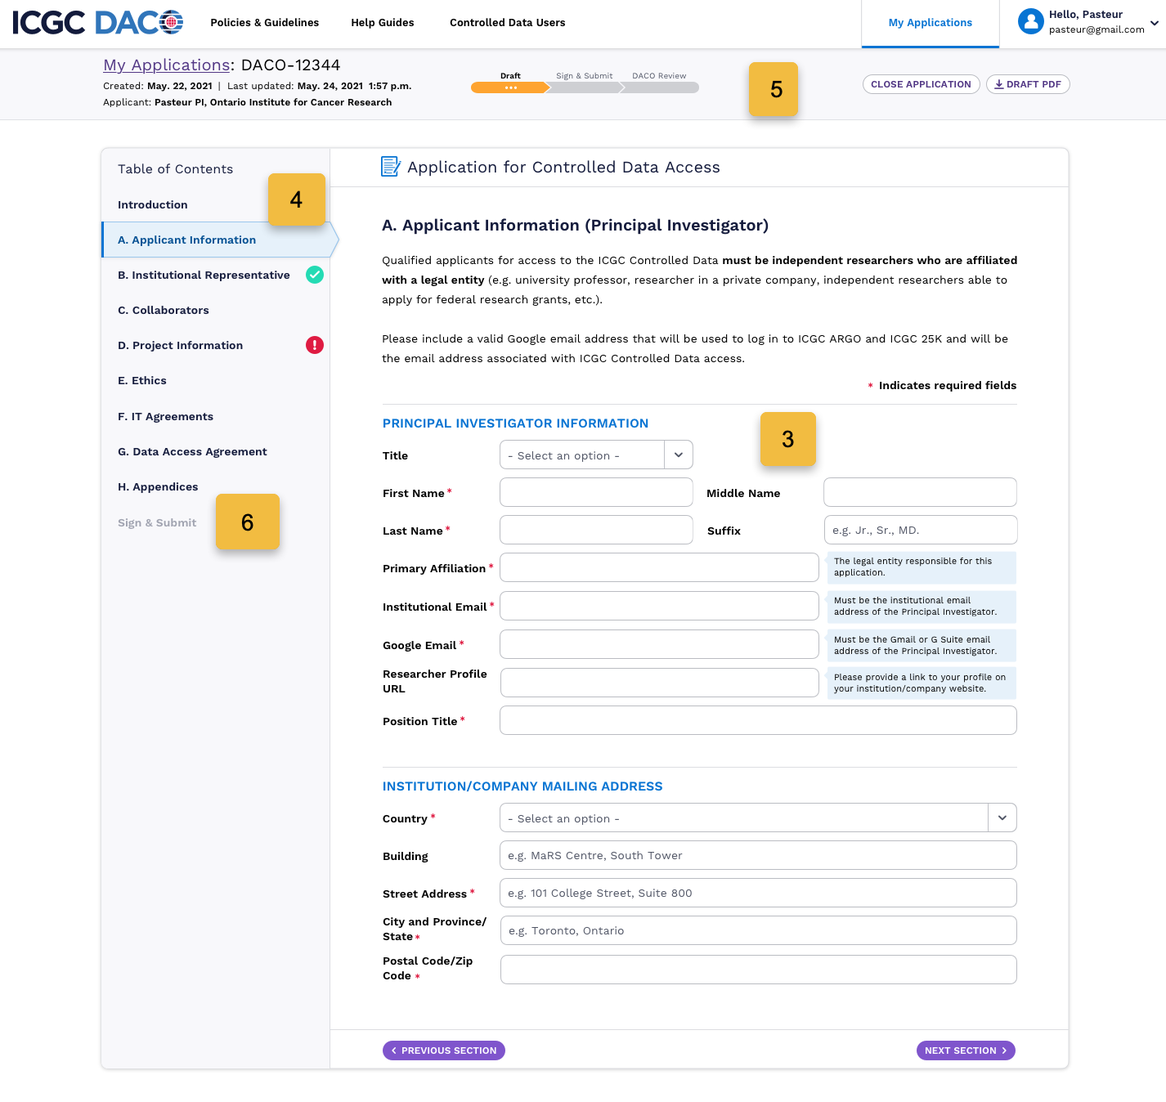
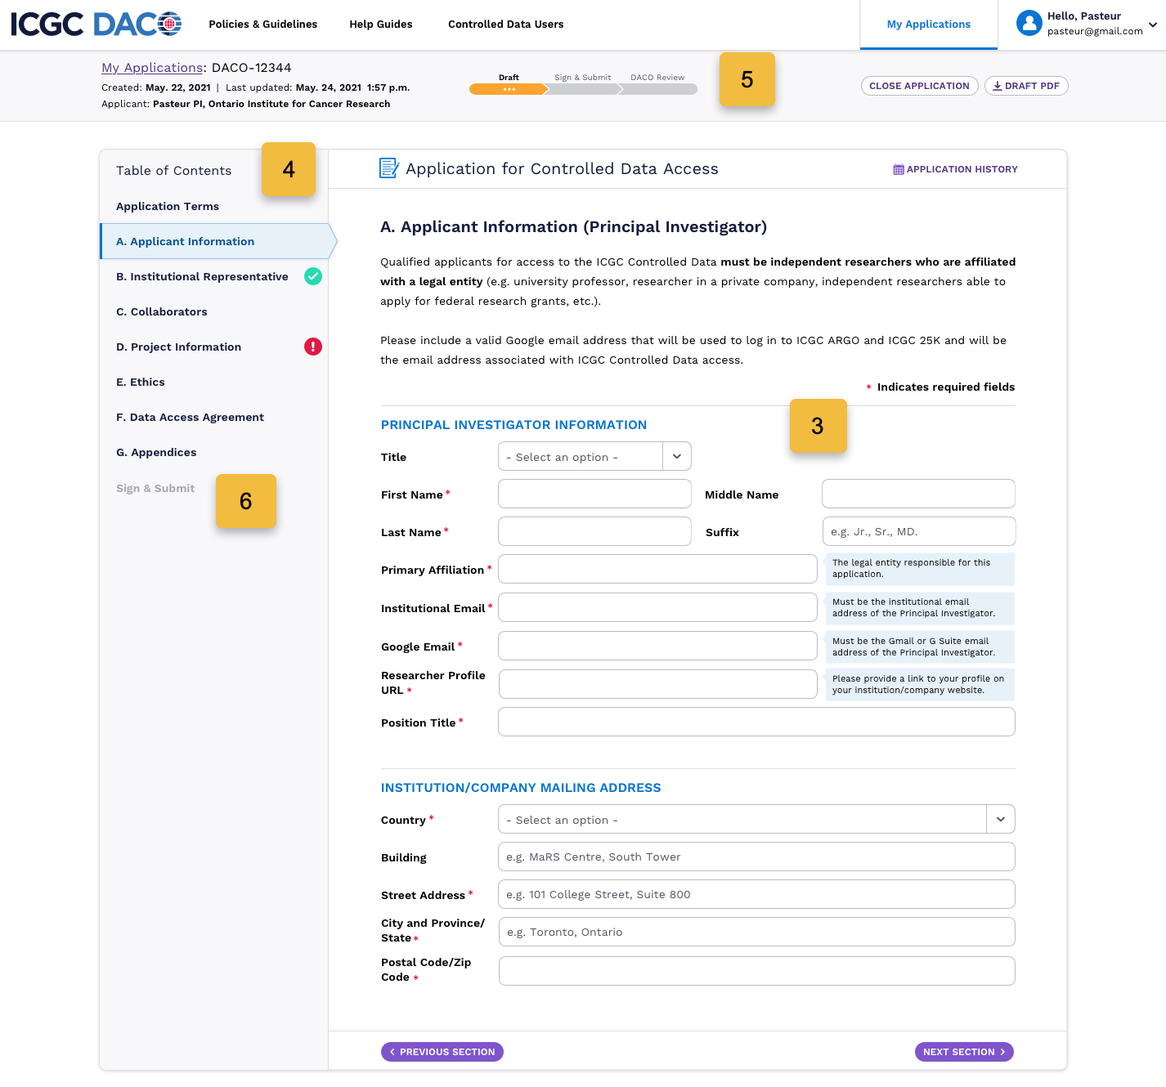
daco-updates-sept10
- wording and screenshot revisions
- added a new page for renewing and closing
- split up the app progress stage table across the multiple pages

diff --git a/docs/data-access/daco/applying.md b/docs/data-access/daco/applying.md
@@ -10,7 +10,9 @@ The International Cancer Genome Consortium has tiered levels of access to donor 
 
 
 ### Eligible Project Guidelines
-While there is great potential of data sharing for scientific research, caution is required when sharing data about individuals participating in genomic research because genomic data, like other types of medical data, can contain personal and identifying information. Some specific criteria that the ICGC DACO will look for are as follows:
+While there is great potential of data sharing for scientific research, caution is required when sharing data about individuals participating in genomic research because genomic data, like other types of medical data, can contain personal and identifying information.
+
+ICGC DACO provides controlled access to public and private researchers (PIs) that apply for access and the access conditions are the same for both types of researchers.  The application must be completed and submitted through the [online submission system](https://daco.icgc-argo.org). The qualification requirements for applicants are: 
 
 1. **The Applicant** must be an independent researcher affiliated with a legal entity (e.g. university professor, researcher in a private company, independent researchers able to apply for federal research grants, etc.), and they **must review and sign the finalized application**.
 1. A qualified **Institutional Representative** of a legal entity has the administrative power to legally commit that entity to the terms and conditions of the Data Access Agreement (e.g. Vice-President Research, a Research Director, or a Contracts Officer for the entity), and **must review and sign the finalized application**.
@@ -46,19 +48,17 @@ The following are a list of the users involved in an application and their requi
 1. Complete the entire application form, including all required fields.
 ![DACO blank application](/assets/data-access/daco-application.png)
 1. You will notice the application form automatically saves as you fill it in. In the table of contents, icons will indicate which sections haven’t been started (blank), are complete ![DACO icon showing section complete](/assets/data-access/daco-toc-complete.png) or are incomplete ![DACO icon showing section incomplete](/assets/data-access/daco-toc-errors.png).
-1. Above the application form basic information about the application is displayed. This is also where you can access actions, such as downloading a pdf, and a progress bar that indicates what stage your application is in. This progress indicator is also displayed on the dashboard card for each application you have started. [Read more about the progress stages below](/docs/data-access/daco/applying#application-progress-stages).
+1. Above the application form basic information about the application is displayed. This is also where you can access actions, such as downloading a pdf, and a progress bar that indicates what stage your application is in. This progress indicator is also displayed on the dashboard card for each application you have started. [Read more about some of the progress stages below](/docs/data-access/daco/applying#application-progress-stages).
 1. You must have all required sections completed in order to access the final `Sign & Submit` section. 
-1. Once your application form is finalized and signed by both the Applicant (Principal Investigator) and Institutional Representative, you can upload the signed application PDF in the `Sign & Submit` section and click the **Submit Application** button. [Read more about signing and submitting your application below](/docs/data-access/daco/applying#signing-and-submitting-the-application).
+1. Once your application form is finalized and signed by both the Applicant (Principal Investigator) and Institutional Representative, you can upload the signed application pdf in the `Sign & Submit` section and click the **Submit Application** button. [Read more about signing and submitting your application below](/docs/data-access/daco/applying#signing-and-submitting-the-application).
 
-### Application Progress Stages
+### Application Progress Stages when Applying
 
 | Application Stage | Description | Application pdf | 
 | ----------------------- | --------------------------- | --------------------- | 
 | **Draft** | The application is in progress and is incomplete. <br /><br /> ![DACO application in Draft state](/assets/data-access/daco-draft.png)| You can download a **Draft pdf** that will display a watermark if you wish to use it to collaborate with others.<br /><br /> ![Download button for draft pdf](/assets/data-access/download-draft.png) |  
 | **Sign & Submit** | All required sections are completed and the application is ready to be signed by the Principal Investigator and Institutional Representative. <br /><br /> ![DACO application in Sign and Submit state](/assets/data-access/daco-signsubmit.png)| You can now download the **Finalized pdf** from the top button to collect the proper signatures.<br /><br /> ![Download button for finalized pdf](/assets/data-access/download-finalized.png)| 
 | **DACO Review** | Once you upload the signed application and click **Submit Application**, the application will be locked and it will be sent to the ICGC DACO for review. <br /><br /> ![DACO application in DACO Review state](/assets/data-access/daco-review.png) | You can download the signed and submitted pdf using the **Signed pdf** top button. <br /><br />![Download button for signed pdf](/assets/data-access/download-signed.png)| 
-| **Revisions Requested** | If the ICGC DACO office requires revisions to your application before approval, you will receive an email with the details of what to revise and those sections of your application will be unlocked for editing. [Read more](/docs/data-access/daco/approval#requested-revisions).  <br /><br /> ![DACO application in Revisions Requested state](/assets/data-access/daco-revisions-requested.png)| You can download a **Draft pdf** that will display a watermark if you wish to use it to collaborate with others. <br /><br /> ![Download button for draft pdf](/assets/data-access/download-draft.png)| 
-| **Approved** | If the ICGC DACO approves your application, it will be viewable and some sections will remain editable. [Read more](/docs/data-access/daco/approval#approval-for-controlled-data-access).  <br /><br /> ![DACO application in Approved state](/assets/data-access/daco-approved.png)| You will be emailed the ICGC DACO approved copy of the application. <br /><br />  ![Download button for signed pdf](/assets/data-access/download-signed.png)| 
 
 
 ### Applicant Dashboard
@@ -69,6 +69,7 @@ When applications are in progress, the Applicant dashboard will show the followi
 1. A card will show up on your dashboard tracking each application you have opened, what stage they are in, and provides quick links for editing. 
 1. Once an application is approved, the card will show the access expiry date and will eventually alert you when it’s almost time for renewal. 
 1. A smaller card in the top right of the dashboard will indicate if the logged in user has been approved for access to ICGC Controlled Data.  
+1. You will always be able to start a new application, in case you are managing multiple projects.
 
 
 The following outlines a bit more information about some specific application sections:
@@ -92,12 +93,12 @@ If your country/region requires an ethics approval, it is required that you prov
 
 If the ethics approval is written in a language other than English, please upload a translated version.
 
-> Please note: The DACO and the ICGC are not responsible for the ethics approval/monitoring of individual research projects and bear no responsibility for the Applicant's failure to comply with local/national ethical requirements.
+> **Please note:** The DACO and the ICGC are not responsible for the ethics approval/monitoring of individual research projects and bear no responsibility for the Applicant's failure to comply with local/national ethical requirements.
 
 ## Signing and Submitting the Application
 The last section of the application, `Sign & Submit`, will be disabled if any section of the application is incomplete. 
 
-When this section is enabled, the final step involves adding the proper signatures to authorize the application. Please do the following:
+When the application is complete, this section is enabled and the final step involves adding the proper signatures to authorize the application. Please do the following:
 1. Download the finalized application from the top application header, or using the button within the section content. 
 1. On the last page of the application pdf you will find a signatures page. You must include **BOTH the Principal Investigator and the Institutional Representative signatures** or your application will be declined.
    * You can print the final signature page, collect the written signatures, scan the signed page and add it back to the finalized application pdf.

diff --git a/docs/data-access/daco/approval.md b/docs/data-access/daco/approval.md
@@ -1,6 +1,6 @@
 ---
 id: approval
-title: ICGC DACO Approval Process
+title: DACO Approval Process
 sidebar_label: Approval Process
 platform_key: DOCS_APPROVAL
 ---
@@ -12,12 +12,20 @@ Once submitted to the ICGC DACO, you will be **notified within 10 business days*
 
 ![DACO Review Process with possible outcomes](/assets/data-access/daco-approval-diagram.png)
 
+### Application Progress Stages after DACO Review
+
+| Application Stage | Description | Application pdf | 
+| ----------------------- | --------------------------- | --------------------- | 
+| **Revisions Requested** | If the ICGC DACO office requires revisions to your application before approval, the revision details will be sent via email, and specific sections of your application will be unlocked for editing.  <br /><br /> ![DACO application in Revisions Requested state](/assets/data-access/daco-revisions-requested.png)| You can download a **Draft pdf** that will display a watermark if you wish to use it to collaborate with others. <br /><br /> ![Download button for draft pdf](/assets/data-access/download-draft.png)| 
+| **Approved** | If the ICGC DACO approves your application, it will be viewable and some sections will remain editable, such as Collaborators.  <br /><br /> ![DACO application in Approved state](/assets/data-access/daco-approved.png)| A copy of the application, signed by the Data Access Officer, will be available within 5 business days of approval. Download the document for your records using the **Approved pdf** top button. <br /><br />  ![Download button for approved pdf](/assets/data-access/download-approved.png)| 
+| **Rejected** | If the ICGC DACO rejects your application, the reasons will be sent via email, and your application will be view-only. <br /><br /> ![DACO application in Rejected state](/assets/data-access/daco-rejected.png)| You can download the signed and submitted pdf using the **Signed pdf** top button. <br /><br />![Download button for signed pdf](/assets/data-access/download-signed.png)| 
+
 ## Revisions Requested
-If the ICGC DACO requires specific criteria to be met before being able to approve the application, they will request revisions from the project team.If this is the case, you will receive an email outlining the sections that require revisions along with specific details that need to be provided.
+If the ICGC DACO requires specific criteria to be met before being able to approve the application, they will request revisions from the project team. If this is the case, you will receive an email outlining the sections that require revisions along with specific details that need to be provided.
 
-At this time, the application submitter can log in to [daco.icgc-argo.org](https://daco.icgc-argo.org) and access their application that is in the `Revisions Requested` state. The sections that need revising will be unlocked and will show an **orange pencil** icon in the table of contents. The `Sign & Submit` section will be enabled once corrections have been made to those sections. Once corrected, please upload the revised and signed application and resubmit.  
+At this time, you can log in to [daco.icgc-argo.org](https://daco.icgc-argo.org) and access the application that is in the `Revisions Requested` state. The sections that need revising will be unlocked and will show an **orange pencil** icon in the table of contents. The `Sign & Submit` section will be enabled once corrections have been made to those sections. Once corrected, please upload the revised and signed application and resubmit.  
 
-![DACO application showing requested revisions state](/assets/data-access/daco-requested-revisions.png)
+![DACO application showing requested revisions state](/assets/data-access/daco-revisions-application.png)
 
 ## Approval for Controlled Data Access
 If the ICGC DACO approves your application, access to ICGC Controlled Data will be granted for a **two year period** starting from the date of approval for access. **Note, it may take up to 24 hours for authorization to take effect.** 
@@ -28,7 +36,7 @@ The Applicant/PI and all Collaborators will receive an email notifying them that
 
 **Next Steps:**
 
-A copy of the application signed by the Data Access Officer will be sent to the Applicant.
+A copy of the application, signed by the Data Access Officer, will be available for your records within 5 business days of approval. Download the document using the **Approved PDF** button in the top header of your application.
 
 You can access ICGC Controlled Data in the following data portals:
 - [ICGC ARGO Data Platform](https://platform.icgc-argo.org/) - For more information, consult the [Accessing and Downloading Data documentation](/docs/data-access/data-download)
@@ -40,9 +48,11 @@ You can access ICGC Controlled Data in the following data portals:
 The approved application can be accessed from your applications dashboard with the following sections unlocked, depending on project criteria.
 
 1. `Section C: Collaborators` will always be unlocked for the Applicant to add and remove Collaborators as the project team changes. 
-   * It is important to ensure that all project Collaborators review the Data Access Agreement, and to remove any Collaborator who should no longer have access to ICGC Controlled Data.   
+   * It is important to ensure that all project Collaborators review the Data Access Agreement, and to remove any Collaborator who should no longer have access to ICGC Controlled Data.
+   * When a Collaborator is removed, they will receive an email notifying them that their access to ICGC Controlled Data will be removed within the next 24 hours.   
    * After approval, a Collaborator’s information cannot be edited, you can only add or delete Collaborators from the application.
-   * When a new Collaborator is added to an approved application, the ICGC DACO will be notified and will review accordingly.
+   * When a new Collaborator is added to an approved application, they will receive an email with the data access information, and ICGC DACO will be notified and will review accordingly.
+   
 1. `Section E: Ethics`
    * If you stated that your research project does not require ethics approval, this section will be locked for editing. 
    * If you provided an ethics approval letter, the ethics section will be editable to ensure you can upload a renewed ethics approval letter when required.
@@ -56,3 +66,12 @@ The approved application can be accessed from your applications dashboard with t
 
 If the Applicant is not eligible or if the project raises significant concerns, the application will be rejected with proper justifications sent via email.
 
+## Application History
+
+At any time within an application lifecycle, the user can access the application history via a button at the top of the application. 
+
+![DACO application history button](/assets/data-access/daco-app-history-button.png)
+
+When clicking this button, a modal will appear with a list of when the application moved to different states, if that state was on a new or renewal application, and which user performed the action.
+
+![DACO application history modal](/assets/data-access/daco-app-history-modal.png)

diff --git a/docs/data-access/daco/renew-and-close.md b/docs/data-access/daco/renew-and-close.md
@@ -1,0 +1,48 @@
+---
+id: renew-close
+title: DACO Renewing and Closing
+sidebar_label: Renewing and Closing
+platform_key: DOCS_RENEW_CLOSE
+---
+
+Once approved, access to ICGC Controlled Data will last for 2 years; however, the applicant can easily submit a renewal application to extend the project team’s access for an additional 2 years.
+
+
+### Application Progress Stages for Renewal and Closing
+
+| Application Stage | Description | Application pdf | 
+| ----------------------- | --------------------------- | --------------------- | 
+| **Attestation Required** | The application requires an annual agreement in order to continue with the last year of access. If this is not completed by the annual date, access will be paused until you attest. <br /><br /> ![DACO application requires annual attestation](/assets/data-access/daco-annual-attestation.png)| You can download the DACO signed pdf using the **Approved pdf** top button. <br /><br /> ![Download button for DACO approved pdf](/assets/data-access/download-approved.png) |  
+| **Expired** | Access will expire 2 years after the date of approval. You will have 90 days after the expiry date to renew this application for an additional 2 years of access. <br /><br /> ![DACO application in Expired state](/assets/data-access/daco-expired-renewable.png)| You can download the DACO signed pdf using the **Approved pdf** top button. <br /><br /> ![Download button for DACO approved pdf](/assets/data-access/download-approved.png)| 
+| **Expired Non-renewable** | If you do not renew the application within 90 days after expiry, the application will be closed indefinitely. <br /><br /> ![DACO application in Expired Non-renewable state](/assets/data-access/daco-expired-nonrenewable.png)| You can download the DACO signed pdf using the **Approved pdf** top button. <br /><br /> ![Download button for DACO approved pdf](/assets/data-access/download-approved.png)| 
+| **Renewal Application** | If you choose to renew an application, it will be unlocked for edits and you will be required to agree to the Data Access Agreement and all Appendices again. <br /><br /> ![Renewal DACO application](/assets/data-access/daco-renewal.png)| You can download a **Draft pdf** that will display a watermark if you wish to use it to collaborate with others on the renewal application.<br /><br /> ![Download button for draft pdf](/assets/data-access/download-draft.png)| 
+| **Closed** | An application can be closed before being submitted or after being approved. If an application is closed after approval but before the expiry date, the project team will lose access and the application will be view-only. <br /><br /> ![DACO application in Closed state](/assets/data-access/daco-closed.png) | If the application is approved and then closed, you can still download the DACO signed pdf using the **Approved pdf** top button. <br /><br />![Download button for DACO approved pdf](/assets/data-access/download-approved.png)| 
+
+
+## Annual Attestation
+
+
+## Renewing an Application 
+The DACO approval expires after 2 years of access. An email will be sent to the applicant 45 days before the access expiry date as well as on the date of expiry. If the project team is to remain active, the applicant may wish to renew beyond the 2 years. The option to renew the application will be available 45 days before the application expires, and 90 days after it expires. 
+
+### How to Renew an Application
+
+1. When the applicant receives the email reminder that the application is about to expire (or has expired), they can log in and click the **Renew** button.
+![DACO renew button for an expired application](/assets/data-access/daco-renew-button.png)
+1. At this time, the application will be unlocked and they can make any changes (if necessary) to their currently approved application, agree to the Data Access Agreement and Appendices again, and re-sign and submit the renewal application.
+![DACO renewal application](/assets/data-access/daco-renewal-application.png)
+1. The DACO Administrator will be notified that a renewal application is ready for review. If there are no issues and/or the application remains the same as the previous version, the project team should be quickly approved for an additional two years. 
+
+### Expired and Non-renewable
+
+A signed copy of the renewal application must be sent to the ICGC DACO via the online application system. If a renewal is not received within 90 days of the application's expiry date, it will be considered closed indefinitely. 
+![DACO renewal period is up so application is non-renewable](/assets/data-access/daco-renewal-is-up.png)
+
+## Closing an Application
+
+1. The application can also be closed by the Applicant or by a DACO Administrator at any time within the lifecycle of the application (before or after approval). A **Close Application** button is available from within the application header bar. 
+![DACO close an application button](/assets/data-access/daco-close-button.png)
+1. When clicking this button, the user will be asked to confirm this action, as it cannot be undone. If the application is being closed after it has been approved, the confirmation modal will display a warning notifying the user that this action will remove access for the project team.
+![DACO close confirmation modal with warning](/assets/data-access/daco-close-modal.png)
+1. Once confirming this action, the application will be closed permanently. The expiry date will change to reflect the date that the application was closed. If the applicant wishes to regain access, a new application will have to be submitted for review. 
+1. The applicant and all collaborators will receive an email notifying them that the application has been closed and access to ICGC Controlled Data will be removed within 24 hours.

diff --git a/docs/data-access/daco/daco-faq.md b/docs/data-access/daco/daco-faq.md
@@ -24,7 +24,7 @@ platform_key: DOCS_DACO_FAQ
    * If you already have an ICGC ARGO Platform account, use the same Google or G Suite email address for the ICGC ARGO Platform account and ICGC DACO website.
    * If you do not yet have an ICGC ARGO Platform account, we recommend applying for access using the Google or G Suite email address with which you will access ICGC Controlled Data.
 
-   Once you have completed your application online, obtain the required signatures and submit your application directly through the website. Once the application has been submitted online, the ICGC DACO committee will review your application and you will hear back **within ten business days**.
+   Once you have completed your application online, obtain the required signatures and submit your application directly through the website. Once the application has been submitted, the ICGC DACO committee will review your application and you will hear back **within ten business days**.
 
 
 3. **Who qualifies as an Applicant (Principal Investigator)?**
@@ -66,11 +66,11 @@ platform_key: DOCS_DACO_FAQ
 
    When you have Collaborators listed on your application, you will see them listed within the Section C table.
    * To add a new Collaborator, click the **Add a Collaborator** button above the table and fill out all of the required fields in the form. When you add a Collaborator to an approved application, they will automatically be granted access and will receive an email notification with instructions.
-   * To remove a Collaborator, click the **garbage can** icon associated with that Collaborator and confirm this action. 
+   * To remove a Collaborator, click the **garbage can** icon associated with that Collaborator and confirm this action. When a Collaborator is removed, they will receive an email notifying them that their access to ICGC Controlled Data will be removed within the next 24 hours.
 
 8. **Can I include authorized personnel and students from other institutions?**
 
-   All authorized students and personnel must be employed by your institution, as the institutional representative signs the Data Access Agreement on behalf of all the employees and students of the institution. Should you wish to share the ICGC Controlled Data with an external Collaborator, they must complete a separate Application for Access to ICGC Controlled Data.
+   All authorized students and personnel must be employed by your institution, as the Institutional Representative signs the Data Access Agreement on behalf of all the employees and students of the institution. Should you wish to share the ICGC Controlled Data with an external Collaborator, they must complete a separate Application for Access to ICGC Controlled Data.
 
 9. **How do I submit an access request on a collaborative project?**
 
@@ -134,7 +134,7 @@ platform_key: DOCS_DACO_FAQ
 
 19. **How do I renew the application for an additional year of access?**
 
-   DACO approval will expire after two years of access. You may apply for renewal on the DACO portal up to 45 days before your application expires, and you have 90 days to renew the application after it expires. In order to renew your application, please reopen the application and  make any changes (if necessary) to your currently approved application before re-submitting it online. 
+   DACO approval will expire after two years of access. You may renew your application on the ICGC DACO website up to 45 days before your application expires, and you have 90 days to renew the application after it expires. In order to renew your application, please click the renew button at the top of the application and make any changes (if necessary) to your currently approved application before re-submitting it online. 
 
 20. **Our access to the controlled data has expired after our 2-year approval. Can I still renew it?**
 
